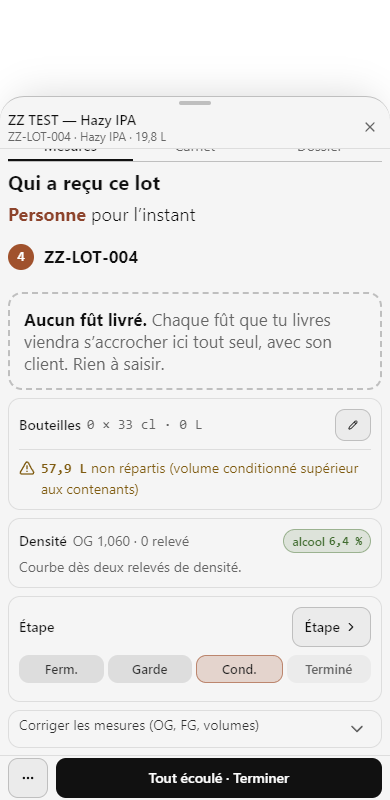
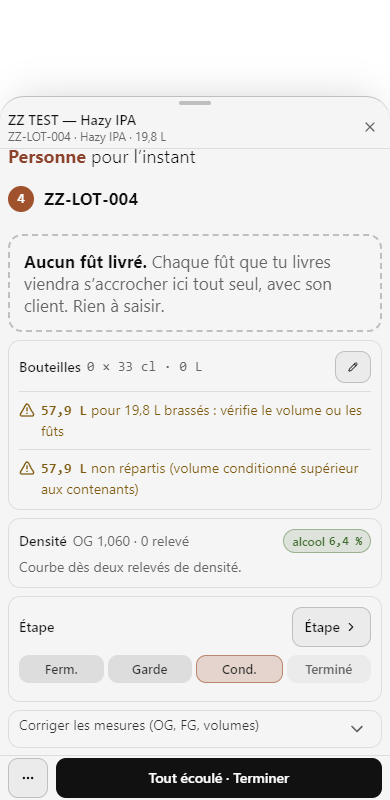
Bugs b1 c1 : captures après correctif

diff --git a/work/missions/2026-11-19-bugs-ecrans/voies/b1/RESULTAT.md b/work/missions/2026-11-19-bugs-ecrans/voies/b1/RESULTAT.md
@@ -29,3 +29,46 @@ DEMANDE EXECUTANT :
 
 CONNAISSANCE : une voie qui ne touche qu'un affichage fige-le dans le banc `banc-main.tsx` : le carnet est vide sous `?dev-local`, monter la vraie feuille sur une fixture ZZ TEST évite tout passage par Firestore.
 LEÇON PROPOSÉE : aucune
+
+## Preuves (exécutant)
+
+Point 1 non fait : `rm captures/*.png` refusé (suppression interdite par le cadre d'exécution). Les 4 anciennes captures portent les mêmes noms que les nouvelles : le banc les a écrasées, aucune capture périmée ne reste (11 PNG, tous datés du passage final).
+
+Corrections du banc (`banc/capturer.mjs`, seul fichier modifié hors RESULTAT) : (a) saisie OG ouverte via « Corriger les mesures » avant le clic (`not clickable` sinon) ; (b) sélection Ctrl+A avant « 2,5 » (la saisie s'ajoutait à « 1.060 » → « 1.0602,5 ») ; (c) sonde d'alerte sur le texte réel « pour 19,8 L brassés » ; (d) sonde de disponibilité sur le texte du body (la feuille se monte en portail, `#root` reste vide) ; (e) `racine vide` ne sort plus sur les feuilles.
+
+Journal, dernier passage (`with_server.mjs`, port 3105, `npx vite`, code 0) :
+```
+mesures-clair-1280 : ALERTE conditionné présente
+courbe-clair-1280 : pas d’alerte conditionné
+mesures-clair-390 : ALERTE conditionné présente
+courbe-clair-390 : pas d’alerte conditionné
+mesures-cave-1280 : ALERTE conditionné présente
+courbe-cave-1280 : pas d’alerte conditionné
+mesures-cave-390 : ALERTE conditionné présente
+courbe-cave-390 : pas d’alerte conditionné
+mesures-ok-clair-1280 : pas d’alerte conditionné
+og-2-5-clair-1280 : ALERTE conditionné présente
+supprimer-clair-1280 : pas d’alerte conditionné
+```
+`pageerror` : 0. `racine vide` : 0.
+
+Captures ouvertes, une ligne chacune :
+- mesures-clair-1280 : alerte ambre « 57,9 L pour 19,8 L brassés : vérifie le volume ou les fûts » sous « Bouteilles », et « 57,9 L non répartis ». Visible, pas de défaut.
+- mesures-clair-390 : même alerte, retour à la ligne propre, « Corriger les mesures » replié en bas. OK.
+- mesures-cave-1280 : alerte ambre lisible sur fond sombre. OK.
+- mesures-cave-390 : idem. OK.
+- courbe-clair-1280 : « 20,5 °C » lisible sur la bande, « fin J9 » libre. OK.
+- courbe-clair-390 : idem, légende repliée. OK.
+- courbe-cave-1280 : lisible ; légende « J5 · Montée de fin » en bleu clair peu contrasté, graduations grises discrètes. À surveiller, pas bloquant.
+- courbe-cave-390 : lisible. OK.
+- mesures-ok-clair-1280 (18,5 L conditionnés) : pas d’alerte conditionné. Reste « 18,5 L non répartis » : avertissement existant, sans lien avec BR-115.
+- og-2-5-clair-1280 : champ « 2,5 », message rouge au champ « OG 2,500 : au-dessus de 1,130, … Cette valeur est impossible : elle ne s’enregistre pas. ». Le refus est visible. Défauts, voir ci-dessous.
+- supprimer-clair-1280 : feuille « ZZ-LOT-004 · suppression demandée », « plus rien ne le retient », boutons « Supprimer ZZ-LOT-004 » et « Archiver plutôt ». Visible, rien cliqué. OK.
+
+Défauts renvoyés au pilote (point 5) :
+1. OG 2,5 : la ligne de résumé « Densité OG 2,500 · 0 relevé » affiche la valeur refusée (la courbe et l'alcool restent inchangés, mais le chiffre refusé s'affiche).
+2. Le message donne la borne haute 1,130 ; le verdict BR-114 cite 0,990–1,200. À trancher : quelle borne et quel texte.
+3. Double alerte : « 57,9 L conditionnés pour 19,8 L brassés » apparaît aussi sous « Corriger les mesures ». Deux lignes pour un même fait.
+4. Hors banc, non vérifié : marge de fin de défilement pour le « + » flottant sur « fin J9 » (BE-42, à confirmer en ligne).
+
+Commande de capture du point 2 : `PORT=3105 node scripts/with_server.mjs --server "npx vite --port 3105 --strictPort" --port 3105 --timeout 300 -- node work/missions/2026-11-19-bugs-ecrans/voies/b1/banc/capturer.mjs`, lancée 5 fois : 1 échec de clic (OG), 3 passages où une sonde ou la saisie était fausse (corrigés), dernier passage propre.

diff --git a/work/missions/2026-11-19-bugs-ecrans/voies/c1/RESULTAT.md b/work/missions/2026-11-19-bugs-ecrans/voies/c1/RESULTAT.md
@@ -20,3 +20,40 @@ DEMANDE EXECUTANT :
 DÉCISION À PRENDRE : LR3-NOTE-1 (vente réelle de 5 695 CHF) : annuler ou garder ? Recommandation : annuler si le brasseur confirme que c'est un test.
 CONNAISSANCE : en espèces, l'écart d'arrondi de 5 ct s'inscrit comme ligne « Arrondi à 5 centimes » (kind `other` si +, `discount` si −) et l'amountHT l'absorbe : même règle que la Dépense (purchaseEntry), sans toucher la TVA.
 LEÇON PROPOSÉE : aucune
+
+## Preuves (exécutant)
+
+Corrections du script (`voies/c1/capturer.mjs`) : (a) le menu « Actions rapides » liste « Vente », pas « Vendre » (diagnostic : libellés visibles relevés, capture `diag-menu.png` hors `captures/`) ; (b) reprise par parcours (3 essais) : les rechargements HMR déclenchés par d'autres sessions qui éditent le même dépôt (`src/ui/finance/ExpenseSheet.tsx`) détruisaient le document ; (c) défilement des « bas » : le conteneur n'était pas `.cs`, le « bas » était identique au « haut » ; corrigé (le « bas » montre désormais la quittance et les boutons).
+
+Journal, dernier passage (`with_server.mjs`, port 3107, `npm run dev`, code 0) :
+```
+1280 clair Vendre true
+1280 clair {"total":"11,90CHF","arrondi":["Arrondi à 5 centimes+0,02","Arrondi à 5 centimes+0,02"],"bouton":"Encaisser 11,90 CHF"}
+1280 clair erreurs []
+1280 cave Vendre true
+1280 cave {"total":"11,90CHF","arrondi":["Arrondi à 5 centimes+0,02","Arrondi à 5 centimes+0,02"],"bouton":"Encaisser 11,90 CHF"}
+1280 cave erreurs []
+390 clair Vendre true
+390 clair {"total":"11,90CHF","arrondi":["Arrondi à 5 centimes+0,02","Arrondi à 5 centimes+0,02"],"bouton":"Encaisser 11,90 CHF"}
+390 clair erreurs []
+390 cave Vendre true
+390 cave {"total":"11,90CHF","arrondi":["Arrondi à 5 centimes+0,02","Arrondi à 5 centimes+0,02"],"bouton":"Encaisser 11,90 CHF"}
+390 cave erreurs []
+```
+Écart au point 4 : la ligne d'arrondi existe en deux exemplaires (bloc des totaux et quittance annexe), donc deux entrées identiques, non une. Total, bouton et erreurs conformes.
+
+Captures ouvertes, une ligne chacune :
+- c1-caisse-1280-clair-haut : total 11,90, « Arrondi à 5 centimes +0,02 » lisible, « Encaisser 11,90 CHF », quittance en annexe. Défaut à regarder : bande blanche derrière « Mon mois » et « Encaisser » qui tranche sur le fond gris (le cave, lui, a une bande sombre).
+- c1-caisse-1280-cave-haut : tout lisible, contraste correct, bouton crème. OK.
+- c1-caisse-390-clair-haut : ligne d'arrondi lisible, pas de recouvrement. OK.
+- c1-caisse-390-clair-bas : quittance « Arrondi à 5 centimes +0,02 », « Total CHF 11,90 », « Modifier » et « Envoyer le PDF » visibles. OK.
+- c1-caisse-390-cave-haut : lisible. OK.
+- c1-caisse-390-cave-bas : idem en sombre, quittance et boutons visibles. OK.
+
+Défauts renvoyés au pilote (point 5) :
+1. Bande blanche derrière « Mon mois / Encaisser » en thème clair, 1280 et 390 (apparence de zone collante, à confirmer).
+2. Ligne d'arrondi affichée deux fois dans la même vue (totaux et quittance) : voulu, à confirmer.
+
+Non vérifié : le ticket et l'annexe en ligne, les tests de LR3-NOTE-1 (décision du brasseur, pas de capture).
+
+Commande du point 1 : `node scripts/with_server.mjs --server "npm run dev" --port 3107 --env PORT=3107 -- node work/missions/2026-11-19-bugs-ecrans/voies/c1/capturer.mjs`, lancée 5 fois (échecs sur le libellé du menu, puis rechargements HMR, puis défilement), dernier passage propre.
